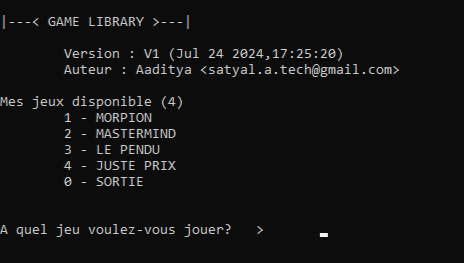
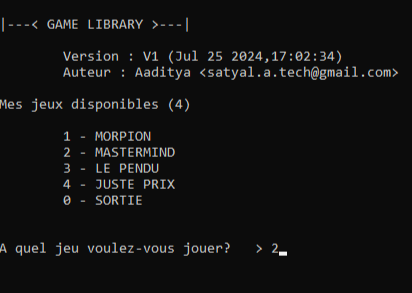
wq

diff --git a/main.c b/main.c
@@ -15,7 +15,7 @@ int main()
     afficherBibliotheque();
     choix = 0;
 
-     printf("\nA quel jeu voulez-vous jouer?   >\t");
+     printf("\nA quel jeu voulez-vous jouer?   > ");
      fflush(stdin);
      scanf("%d", &choix);
 

diff --git a/jeux.c b/jeux.c
@@ -12,7 +12,7 @@
 
 void afficherBibliotheque()
 {
-    printf("\nMes jeux disponible (%d)\n",NB_JEUX);
+    printf("\nMes jeux disponibles (%d)\n\n",NB_JEUX);
     printf("%s\n",INDEX_JEUX);
 }
 
